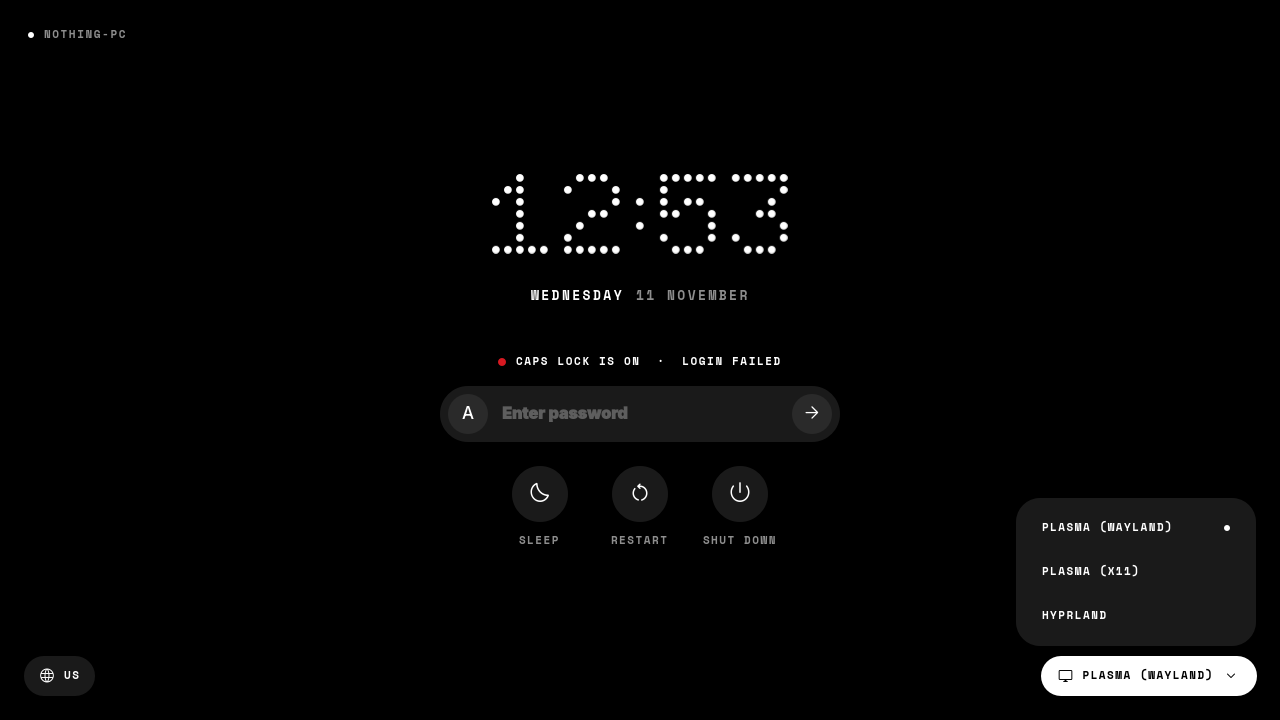
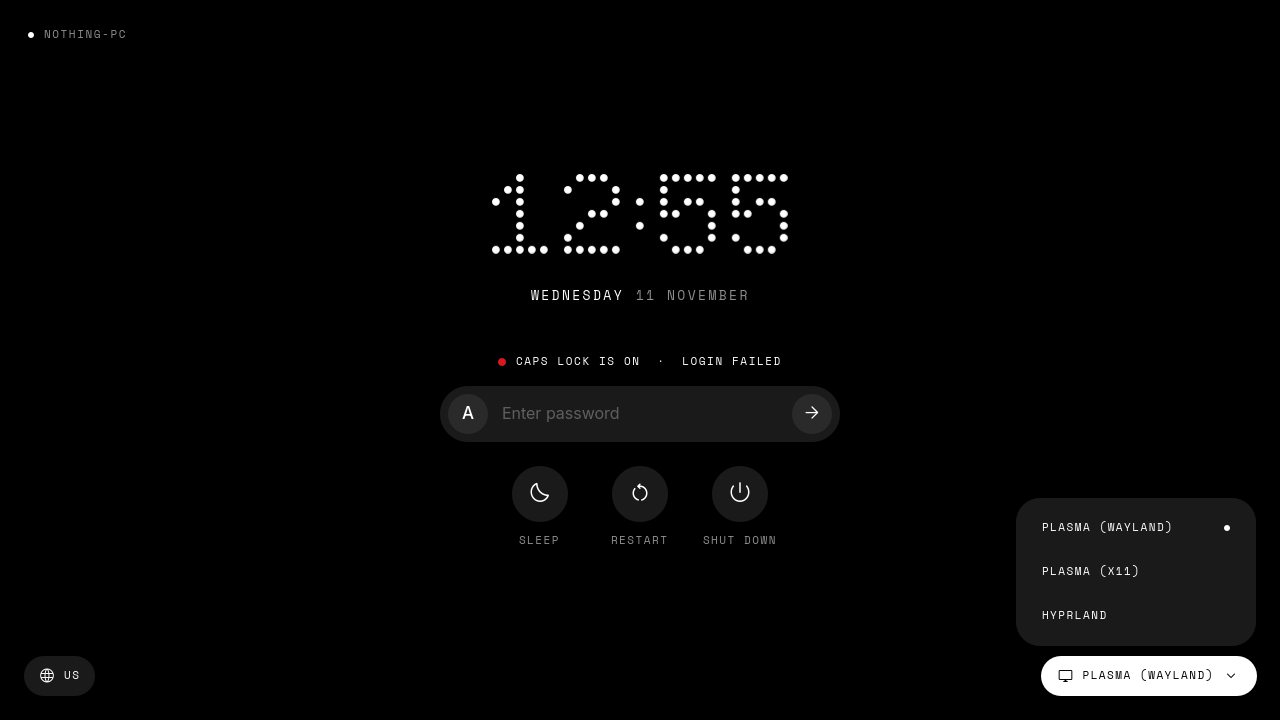
SDDM: explicit normal weight for Inter text fields

diff --git a/sddm/nothing/Main.qml b/sddm/nothing/Main.qml
@@ -342,6 +342,7 @@ Rectangle {
                         anchors.verticalCenter: parent.verticalCenter
                         color: root.fg
                         font.family: root.fSans
+                        font.weight: Font.Normal
                         font.pixelSize: 17
                         selectionColor: root.fg
                         selectedTextColor: root.bg
@@ -357,6 +358,7 @@ Rectangle {
                             text: "Username"
                             color: root.fg3
                             font.family: root.fSans
+                            font.weight: Font.Normal
                             font.pixelSize: 16
                         }
 
@@ -460,6 +462,7 @@ Rectangle {
                         selectionColor: "transparent"
                         selectedTextColor: root.bg
                         font.family: root.fSans
+                        font.weight: Font.Normal
                         font.pixelSize: 17
                         clip: true
                         focus: !root.manualUser
@@ -477,6 +480,7 @@ Rectangle {
                             text: !root.needsPassword ? "No password needed" : "Enter password"
                             color: root.fg3
                             font.family: root.fSans
+                            font.weight: Font.Normal
                             font.pixelSize: 16
                             font.letterSpacing: 0
                         }
